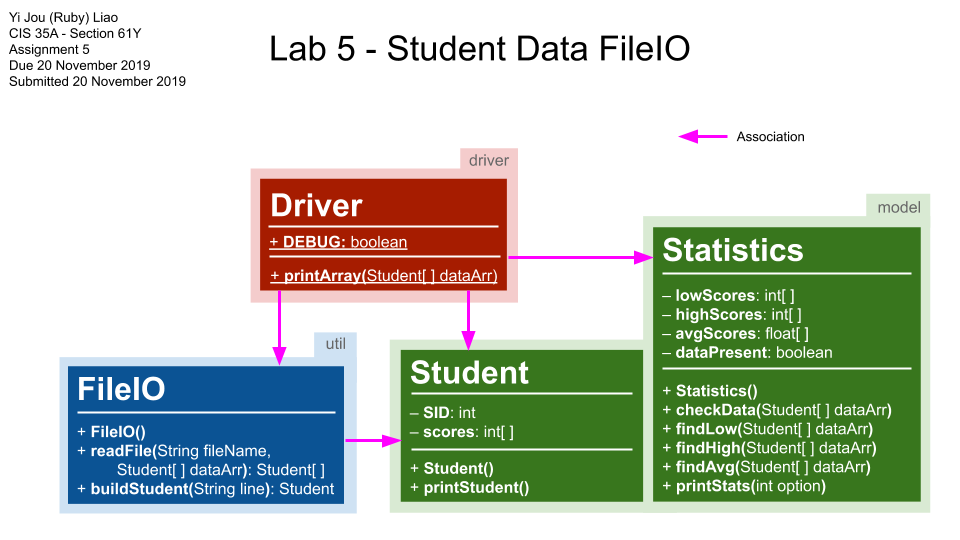
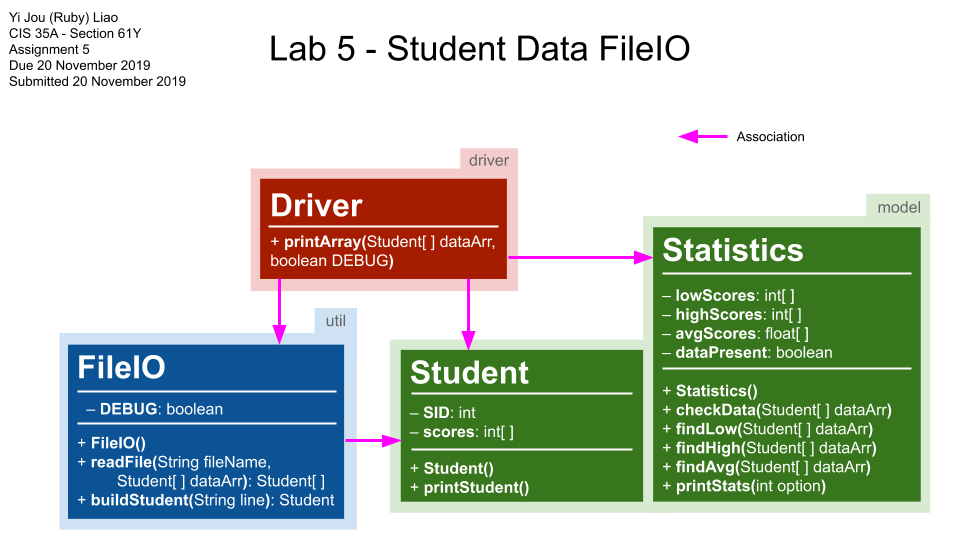
removed static variable and method

Changed region(s): [[0.0625, 0.4148, 0.5625, 1.0]]

diff --git a/src/driver/Driver.java b/src/driver/Driver.java
@@ -4,23 +4,23 @@ import model.*; // Student and Statistics class
 import util.*; // FileIO class
 
 public class Driver {
-	public static boolean DEBUG = false;
-
 	public static void main(String[] args) {
 
 		Student[] dataArr = new Student[40]; // Student array with max 40 records
 		FileIO IO = new FileIO();
 		// Linux path: "/home/ruby/git/Lab5/StudentData.txt"
 		// Windows path: "C:\Users\rubsy\git\Lab5\StudentData.txt"
-		dataArr = IO.readFile("C:\\Users\\rubsy\\git\\Lab5\\StudentData.txt", dataArr);
-		printArray(dataArr); // Change DEBUG to true to print student data
-
+		dataArr = IO.readFile("/home/ruby/git/Lab5/StudentData.txt", dataArr);
 		Statistics stats = new Statistics();
 		stats.checkData(dataArr); // Check if there's student data present at all
 		stats.findLow(dataArr);
 		stats.findHigh(dataArr);
 		stats.findAvg(dataArr);
-		if (DEBUG) { // Change DEBUG to true to check other options for printStats()
+		if (IO.isDEBUG()) { // Change DEBUG in line 9 FileIO.java to "true" to access
+			Driver d = new Driver();
+			// Print raw student data saved to dataArr
+			d.printArray(dataArr, IO.isDEBUG());
+			// to "true" to check other options for printStats()
 			stats.printStats(1); // Low scores
 			stats.printStats(2); // High scores
 			stats.printStats(3); // Average scores
@@ -28,8 +28,8 @@ public class Driver {
 		stats.printStats(4); // Print all scores
 	}
 
-	public static void printArray(Student[] dataArr) { // For checking what's stored in student record array
-		if (DEBUG) { // Only works if DEBUG = true
+	public void printArray(Student[] dataArr, boolean DEBUG) { // Check raw data stored in student record array
+		if (DEBUG) { // Only works if DEBUG = true in
 			int counter = 0; // Counts number of entries stored
 			try {
 				for (counter = 0; counter < dataArr.length; counter++) { // Print each entry in Student[]

diff --git a/src/util/FileIO.java b/src/util/FileIO.java
@@ -2,13 +2,17 @@ package util;
 
 import java.io.*; // FileReader, BufferedReader
 import java.util.*; // StringTokenizer
-
-import driver.Driver; // For accessing DEBUG variable
 import model.Student; // For creating Student object
 
 public class FileIO {
+	
+	private boolean DEBUG = false;
 
 	public FileIO() { // Constructor
+	}
+	
+	public boolean isDEBUG() { // Getter for DEBUG value
+		return DEBUG;
 	}
 
 	public Student[] readFile(String fileName, Student[] dataArr) {
@@ -23,7 +27,7 @@ public class FileIO {
 				if (line == null) // When line is empty, end of file is reached and loop is exited
 					eof = true;
 				else {
-					if (Driver.DEBUG) // Only prints what is read when DEBUG = true
+					if (DEBUG) // Only prints what is read when DEBUG = true
 						System.out.println("Reading " + line);
 					if (counter > 1 && counter <= 41) // Skips first line of file, the data table header
 						// Creates student object in Student[] up to the 40th record in .txt
